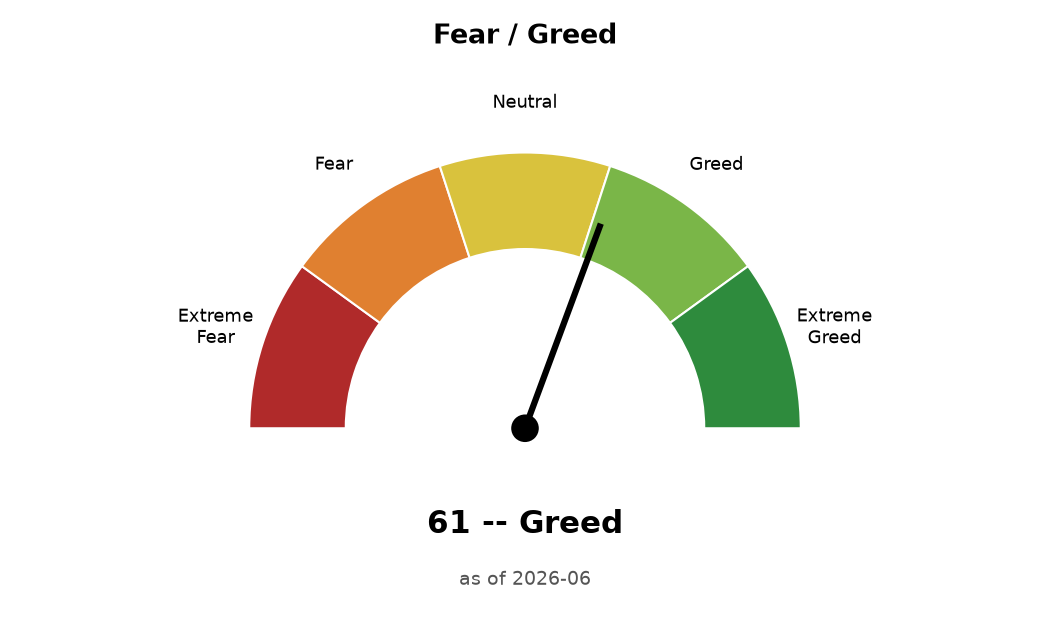
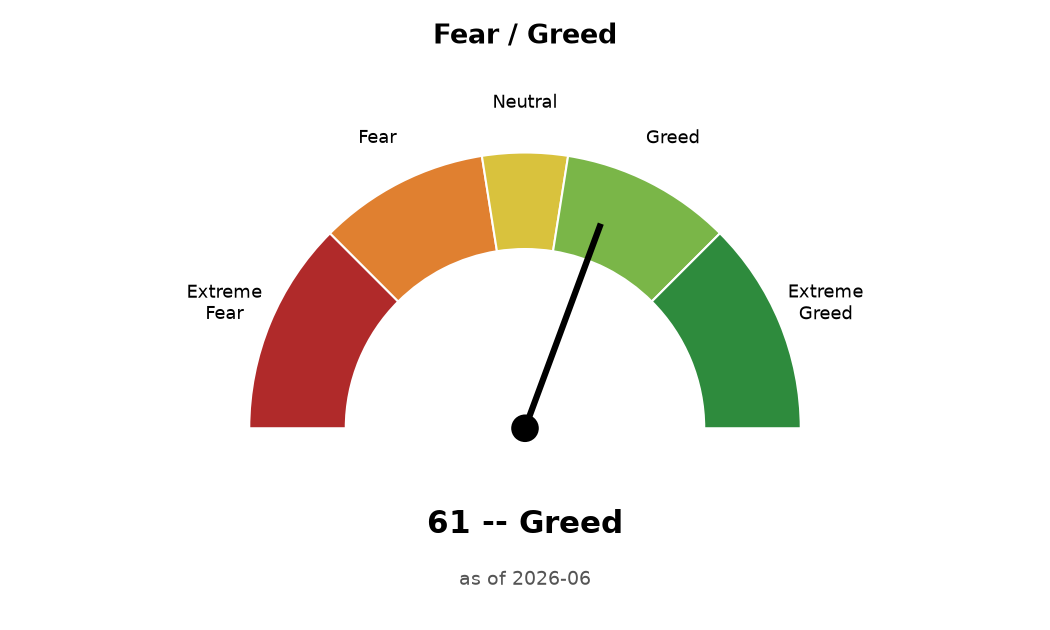
Add Fear/Greed historical heatmap; fix band boundary inconsistency
Calendar-style heatmap (years x months) using the exact same 5-color
scale as the gauge, added below it in the report. Covers March 2008 --
the earliest month India VIX data exists (NSE launched the index in late
2007) -- through the present, 220 months. 2000 isn't reachable: neither
India VIX nor Nifty data exists that far back via yfinance regardless of
source.

Sanity-checked against well-known market history before trusting it:
Oct 2008 (Lehman collapse aftermath) = 4.6 Extreme Fear, Aug 2013 (taper
tantrum) = 15.0 Extreme Fear, Apr 2020 (COVID bottom) = 9.7 Extreme Fear,
Nov 2020 (vaccine rally) = 56.8 Greed.

Bug caught while building this: GAUGE_BANDS (the gauge's color-wedge
cutoffs, 20/40/60/80) and sentiment.LABELS (the text-label cutoffs used
for "NN -- Fear"/"NN -- Greed", 25/45/55/75) used different boundaries --
a score like 41 would render as Neutral-yellow on the gauge/heatmap but
"Fear" in the text right next to it. GAUGE_BANDS is now derived from
sentiment.LABELS instead of hardcoded separately, so there's one source
of truth for both. Also fixed the heatmap colorbar ticks, which were
hardcoded assuming even 20-point bands.

14/14 tests pass, zero bootstrap-seed discrepancies.

diff --git a/data/processed/report.html b/data/processed/report.html
@@ -57,6 +57,13 @@ forward-return model.</p>
 components -- check the breakdown above, not just the headline number, and
 read alongside the "Current read" verdict below for the buy/sell direction
 behind the score.</p>
+<h3>History</h3>
+<img src="fear_greed_history.png" alt="Fear/Greed history heatmap">
+<p class="caveat">Limited to when India VIX data exists (from March 2008 --
+NSE launched the index in late 2007); earlier months can't be scored the
+same way regardless of source, since that component simply didn't exist
+yet. Domestic MF flow data starts July 2014, so 2008-2014 readings use
+only VIX + Nifty momentum + FII flow (3 of 5 components).</p>
 
 <img src="sip_trend.png" alt="Monthly SIP contribution trend">
 <h2>Key insights</h2>
@@ -138,6 +145,6 @@ with the "domestic absorption cushions FII exits" mechanism, not a tested
 trading rule. The March 2026 crash (FPI -1.18 lakh cr, MF +0.99 lakh cr,
 Nifty -11.3%, then +7.5% the next month) is the archetype.</p>
 
-<footer>Generated 2026-07-04 12:20 from data/processed/*.csv (AMFI, NSDL, SEBI-sourced MF trends, GST, yfinance).</footer>
+<footer>Generated 2026-07-04 18:02 from data/processed/*.csv (AMFI, NSDL, SEBI-sourced MF trends, GST, yfinance).</footer>
 </body>
 </html>

diff --git a/src/report.py b/src/report.py
@@ -19,6 +19,7 @@ PROCESSED_DIR = pathlib.Path(__file__).resolve().parent.parent / "data" / "proce
 CHART_PATH = PROCESSED_DIR / "sip_trend.png"
 HEATMAP_PATH = PROCESSED_DIR / "cycle_heatmap.png"
 GAUGE_PATH = PROCESSED_DIR / "fear_greed_gauge.png"
+HISTORY_GAUGE_PATH = PROCESSED_DIR / "fear_greed_history.png"
 REPORT_PATH = PROCESSED_DIR / "report.html"
 
 # Jan-Apr 2025: AMFI's dormant-folio reconciliation window (~1.43cr folios
@@ -323,14 +324,22 @@ def draw_cycle_heatmap(sip_df: pd.DataFrame, out_path: pathlib.Path = HEATMAP_PA
     return out_path
 
 
-# (min_score, max_score, color, label) -- five 20-point bands spanning the
-# semicircle left (fear) to right (greed), matching sentiment.LABELS.
+# (min_score, max_score, color, label) spanning the semicircle left (fear)
+# to right (greed). Boundaries are derived FROM sentiment.LABELS (not
+# duplicated) so a score's gauge color, heatmap tile color, and text label
+# ("41 -- Fear") always agree -- these three used to have three different
+# sets of hardcoded cutoffs, so e.g. a score of 41 could render as
+# "Neutral" yellow on one chart and "Fear" text on another.
+_BAND_COLORS = {
+    "Extreme Fear": "#b02a2a",
+    "Fear": "#e08030",
+    "Neutral": "#d9c23d",
+    "Greed": "#7ab648",
+    "Extreme Greed": "#2e8b3d",
+}
 GAUGE_BANDS = [
-    (0, 20, "#b02a2a", "Extreme\nFear"),
-    (20, 40, "#e08030", "Fear"),
-    (40, 60, "#d9c23d", "Neutral"),
-    (60, 80, "#7ab648", "Greed"),
-    (80, 100, "#2e8b3d", "Extreme\nGreed"),
+    (lo, min(hi, 100), _BAND_COLORS[label], label.replace(" ", "\n"))
+    for lo, hi, label in sentiment.LABELS
 ]
 
 
@@ -370,7 +379,62 @@ def draw_fear_greed_gauge(reading: dict, out_path: pathlib.Path = GAUGE_PATH) ->
     return out_path
 
 
-def fear_greed_html(sip_df: pd.DataFrame, gauge_filename: str = "fear_greed_gauge.png") -> str:
+MONTH_ABBR = ["Jan", "Feb", "Mar", "Apr", "May", "Jun", "Jul", "Aug", "Sep", "Oct", "Nov", "Dec"]
+
+
+def draw_fear_greed_history(sip_df: pd.DataFrame, out_path: pathlib.Path = HISTORY_GAUGE_PATH) -> pathlib.Path:
+    """
+    Calendar-style heatmap: one row per year, one column per month, colored
+    with the exact same 5 bands as the gauge (not a continuous gradient --
+    a discrete ListedColormap/BoundaryNorm pinned to the GAUGE_BANDS
+    cutoffs and colors) so a tile's color means the same thing here as on
+    the dial. Only months with >=3 of 5 components are plotted (same
+    usability gate as latest_reading) -- omitted cells are left blank.
+    """
+    import matplotlib.colors as mcolors
+
+    frame = sentiment.build_fear_greed_frame(sip_df)
+    usable = frame[frame["n_components"] >= 3].copy()
+    if usable.empty:
+        fig, ax = plt.subplots(figsize=(4, 2))
+        ax.text(0.5, 0.5, "Not enough history yet", ha="center", va="center")
+        ax.axis("off")
+        plt.savefig(out_path, dpi=150)
+        plt.close(fig)
+        return out_path
+
+    usable["year"] = usable["month"].str.slice(0, 4).astype(int)
+    usable["month_num"] = usable["month"].str.slice(5, 7).astype(int)
+    years = list(range(usable["year"].min(), usable["year"].max() + 1))
+
+    matrix = np.full((len(years), 12), np.nan)
+    for _, row in usable.iterrows():
+        matrix[years.index(row["year"]), row["month_num"] - 1] = row["composite"]
+
+    cmap = mcolors.ListedColormap([c for _, _, c, _ in GAUGE_BANDS])
+    norm = mcolors.BoundaryNorm([lo for lo, _, _, _ in GAUGE_BANDS] + [100], cmap.N)
+
+    fig, ax = plt.subplots(figsize=(9, max(3, len(years) * 0.35)))
+    masked = np.ma.masked_invalid(matrix)
+    im = ax.imshow(masked, aspect="auto", cmap=cmap, norm=norm)
+    ax.set_xticks(range(12), labels=MONTH_ABBR)
+    ax.set_yticks(range(len(years)), labels=years)
+    for i in range(len(years)):
+        for j in range(12):
+            if not np.isnan(matrix[i, j]):
+                ax.text(j, i, f"{matrix[i, j]:.0f}", ha="center", va="center", fontsize=6.5)
+    ax.set_title("Fear / Greed history (monthly composite, same 5-band scale as the gauge)")
+    band_centers = [(lo + hi) / 2 for lo, hi, _, _ in GAUGE_BANDS]
+    cbar = fig.colorbar(im, ax=ax, ticks=band_centers, shrink=0.9)
+    cbar.ax.set_yticklabels([label for _, _, _, label in GAUGE_BANDS], fontsize=8)
+    plt.tight_layout()
+    plt.savefig(out_path, dpi=150)
+    plt.close(fig)
+    return out_path
+
+
+def fear_greed_html(sip_df: pd.DataFrame, gauge_filename: str = "fear_greed_gauge.png",
+                    history_filename: str = "fear_greed_history.png") -> str:
     reading = sentiment.latest_reading(sip_df)
     rows = []
     for c in reading["components"]:
@@ -393,6 +457,13 @@ forward-return model.</p>
 components -- check the breakdown above, not just the headline number, and
 read alongside the "Current read" verdict below for the buy/sell direction
 behind the score.</p>
+<h3>History</h3>
+<img src="{history_filename}" alt="Fear/Greed history heatmap">
+<p class="caveat">Limited to when India VIX data exists (from March 2008 --
+NSE launched the index in late 2007); earlier months can't be scored the
+same way regardless of source, since that component simply didn't exist
+yet. Domestic MF flow data starts July 2014, so 2008-2014 readings use
+only VIX + Nifty momentum + FII flow (3 of 5 components).</p>
 """
 
 
@@ -505,5 +576,6 @@ def build_report() -> pathlib.Path:
     draw_chart(df)
     draw_cycle_heatmap(df)
     draw_fear_greed_gauge(sentiment.latest_reading(df))
+    draw_fear_greed_history(df)
     insights = compute_insights(df)
     return generate_html(df, insights)